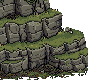
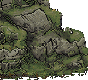
ART-OVERHAUL-001 Stage B corrections: wild rock, solid threshold, varied roots
ChatGPT approved Stage B with three minor refinements; all three are made
without moving or resizing the cave:

- Cliff stone: the cliff and the jambs beside the opening are re-inpainted
  in PixelLab (inpaint_image_pro_flash, silhouette kept) as irregular
  fractured rock instead of coursed strata.
- Threshold: the ordered dither is replaced by a ragged shadow in three
  solid tones easing from the mouth's dark to soil.
- Roots: redrawn by B2/scripts/roots.py with varied length, spacing, curve
  and thickness (two PixelLab root inpaints were still an even curtain).

tools/aoh_cave_ext.py builds from B2/raw/cliff_b2.png and records the B2
jobs (5 jobs, 45 generations) in pixellab-assets.json. The doorway core,
props, collision, the way in and out and saves are unchanged. layout_test,
save_test and menu_test pass. The board records the Stage B review and the
corrections package; DESIGN.md and TASKS.md are updated.

diff --git a/tools/aoh_cave_ext.py b/tools/aoh_cave_ext.py
@@ -18,6 +18,9 @@ from PIL import Image
 ROOT = os.path.dirname(os.path.dirname(os.path.abspath(__file__)))
 SRC = os.path.join(ROOT, 'art/style_tests/ART-OVERHAUL-001/B')
 RAW = os.path.join(SRC, 'raw')
+# B2 (Stage B corrections): the cliff re-inpainted as irregular rock, the jambs too, and hand-drawn roots
+# (B2/scripts/roots.py), built from B/raw/mouth_a.png.
+RAW_B2 = os.path.join(ROOT, 'art/style_tests/ART-OVERHAUL-001/B2/raw')
 OUT = os.path.join(ROOT, 'art/farm/cave_ext')
 RES = 'res://art/farm/cave_ext/'
 T = 16                       # art px per tile
@@ -31,7 +34,7 @@ M_ROCK, MN_ROCK = 'f2f2f0ff', 'c2c2c0ff'
 M_MOUTH, MN_MOUTH = 'ffffffff', 'ccccccff'
 # The throat: the opening's core steps down to these by depth (px in from the core's edge). CAVE_TINT is 050508.
 THROAT = [(3, (14, 12, 16)), (6, (5, 5, 8))]
-SHADOW = (20, 16, 18)        # the threshold decal's colour, the farm's darkest outline step
+SHADOW = (20, 16, 18)        # the threshold decal's core colour, the farm's darkest outline step
 
 
 def load(rel):
@@ -117,19 +120,30 @@ def prop(name, rel, cx, foot, base=None, flat=False, fh=False):
     place(name, im, cx - im.shape[1] // 2, foot - im.shape[0], foot / T if base is None else base, flat=flat)
 
 
-def threshold(w=48, h=15):
-    """The doorway's shadow on row 9: a half-ellipse in three stepped densities (solid, 4x4 ordered dither at
-    1/2, then 1/4), one opaque colour, no partial alpha."""
-    bayer = np.array([[0, 8, 2, 10], [12, 4, 14, 6], [3, 11, 1, 9], [15, 7, 13, 5]]) / 16.0
+def threshold(w=50, h=16, seed=7):
+    """The doorway's shadow on row 9 (B2): a ragged half-ellipse in three solid tones, darkest at the mouth and
+    easing to a dark soil brown at its edge. Each band's edge is wobbled by smooth noise so it reads as worn earth
+    sliding into the dark, not a pattern; no dither, no partial alpha, no lone pixels."""
+    rng = np.random.default_rng(seed)
+    def wobble(n, amp):                      # smooth 1-D noise along x, one value per column
+        k = rng.normal(0, 1, n // 6 + 3)
+        xs = np.arange(n) / 6.0
+        return amp * np.interp(xs, np.arange(len(k)), k)
+    edge = [wobble(w, a) for a in (0.10, 0.08, 0.07)]
+    tones = [SHADOW, (36, 28, 33), (50, 38, 30)]   # the threshold, then two palette darks (241c21, 322619)
+    limits = [0.30, 0.62, 1.0]
     im = np.zeros((h, w, 4), np.uint8)
     for y in range(h):
         for x in range(w):
             r = ((x + 0.5 - w / 2) / (w / 2)) ** 2 + ((y + 0.5) / h) ** 2
-            if r >= 1.0:
-                continue
-            density = 1.0 if r < 0.18 else (0.5 if r < 0.5 else 0.25)
-            if bayer[y % 4, x % 4] < density:
-                im[y, x] = (*SHADOW, 255)
+            for band in range(3):
+                if r < limits[band] + edge[band][x] * (1.0 + y / h):
+                    im[y, x] = (*tones[band], 255)
+                    break
+    a = im[..., 3] > 0                       # drop lone pixels on the outer edge
+    n = np.zeros(a.shape, int)
+    n[1:] += a[:-1]; n[:-1] += a[1:]; n[:, 1:] += a[:, :-1]; n[:, :-1] += a[:, 1:]
+    im[a & (n <= 1)] = 0
     return im
 
 
@@ -138,8 +152,8 @@ def main():
     for f in os.listdir(OUT):
         if f.endswith('.png'):
             os.remove(os.path.join(OUT, f))
-    # --- the cliff with its mouth (cliff_v1, then mouth_a inpainted into x 56-152, y 16-96) ---
-    full = load('mouth_a.png')
+    # --- the cliff with its mouth (cliff_v1, mouth_a inpainted into x 56-152, y 16-96, then the B2 rock and roots) ---
+    full = load(os.path.join(RAW_B2, 'cliff_b2.png'))
     H, W = full.shape[:2]
     MX0, MX1, MY0 = 56, 152, 16
     L = luma(full)
@@ -182,7 +196,7 @@ def main():
         if fh:
             im = im[:, ::-1]
         place('foot_%d.png' % i, im, x0, y0, 0, flat=True)
-    place('threshold.png', threshold(), DOOR_X * T + T // 2 - 24, FOOT_Y, 0, flat=True)
+    place('threshold.png', threshold(), DOOR_X * T + T // 2 - 25, FOOT_Y, 0, flat=True)
     # --- flat litter and pebbles ---
     prop('litter_0.png', 'under/32.png', 200, 168, flat=True)
     prop('litter_1.png', 'under/37.png', 236, 170, flat=True)
@@ -246,6 +260,13 @@ def registry():
         'tool': 'tools/aoh_cave_ext.py', 'sources': 'art/style_tests/ART-OVERHAUL-001/B/',
         'generations': sum(j.get('cost', 0) for j in jobs), 'jobs': jobs,
         'game_files': sorted(used) + [RES + 'pieces.json']}
+    jobs2 = [json.loads(l) for l in open(os.path.join(RAW_B2, 'jobs.jsonl')) if l.strip()]
+    reg['ART-OVERHAUL-001/B2'] = {
+        'tool': 'tools/aoh_cave_ext.py', 'sources': 'art/style_tests/ART-OVERHAUL-001/B2/',
+        'note': 'Stage B corrections: irregular cliff rock, solid-tone threshold, varied roots (hand-drawn)',
+        'generations': sum(j.get('cost', 0) for j in jobs2), 'jobs': jobs2,
+        'game_files': [RES + 'cliff_top.png', RES + 'cliff_w.png', RES + 'cliff_e.png', RES + 'mouth.png',
+                       RES + 'lip.png', RES + 'threshold.png']}
     json.dump(reg, open(path, 'w'), indent=1)
 
 

diff --git a/art/style_tests/ART-OVERHAUL-001/B2/scripts/roots.py b/art/style_tests/ART-OVERHAUL-001/B2/scripts/roots.py
@@ -1,0 +1,45 @@
+"""B2: hand-drawn hanging roots over the mouth (PixelLab's two root inpaints still came out as an even curtain).
+Clears the old roots under the brow (x 86-139, y 25-37) to the opening's dark, then draws eleven roots with
+varied lengths, spacing, curvature and thickness in the colours the old roots used.
+  python roots.py raw/cliff_r1_jamb.png raw/cliff_b2.png"""
+import sys
+import numpy as np
+from PIL import Image
+im = np.array(Image.open(sys.argv[1]).convert('RGBA'))
+f = im[..., :3].astype(float)
+L = 0.3 * f[..., 0] + 0.55 * f[..., 1] + 0.15 * f[..., 2]
+X0, X1, Y0, Y1 = 86, 140, 25, 38
+box = (slice(Y0, Y1), slice(X0, X1))
+# the old roots' colours: the lit pixels in the box, darkest to lightest
+lit = f[box][L[box] >= 32]
+lit = lit[np.argsort(0.3 * lit[:, 0] + 0.55 * lit[:, 1] + 0.15 * lit[:, 2])]
+DARK, MID, HI = (tuple(int(v) for v in lit[int(q * (len(lit) - 1))]) for q in (0.15, 0.5, 0.88))
+GAP = (20, 17, 20)
+sub = im[box]
+sub[(L[box] >= 20) & (sub[..., 3] == 255)] = (*GAP, 255)
+# (x, length, thickness, drift at the tip, kink row or -1): irregular gaps, stubs and two long ones
+ROOTS = [(87, 5, 1, 0, -1), (90, 12, 2, 2, 7), (95, 3, 1, 0, -1), (99, 8, 1, -1, 4), (104, 18, 2, -2, 10),
+         (110, 4, 1, 1, -1), (117, 10, 1, 2, 6), (121, 2, 1, 0, -1), (126, 15, 2, 1, 9), (131, 6, 1, -1, -1),
+         (136, 9, 1, -1, 5)]
+top = np.full(im.shape[1], Y0)
+for x in range(X0, X1):                  # each root hangs from the brow's lowest lit pixel above the box
+    y = Y0 - 1
+    while y > Y0 - 6 and L[y, x] < 32:
+        y -= 1
+    top[x] = y + 1
+for x0, n, t, drift, kink in ROOTS:
+    for i in range(n):
+        u = i / max(n - 1, 1)
+        x = x0 + int(round(drift * u * u)) + (1 if kink >= 0 and i >= kink else 0) * np.sign(drift or 1)
+        y = top[x0] + i
+        thick = t == 2 and u < 0.6
+        tip = i >= n - 2
+        im[y, x] = (*(DARK if tip else MID), 255)
+        if thick:
+            im[y, x + 1] = (*DARK, 255)
+            im[y, x] = (*HI, 255)
+    if n >= 12:                          # a rootlet off each long root
+        y = top[x0] + n // 2
+        im[y, x0 - 1] = (*DARK, 255); im[y + 1, x0 - 2] = (*DARK, 255)
+Image.fromarray(im).save(sys.argv[2])
+print('colours', DARK, MID, HI)

diff --git a/art/style_tests/ART-OVERHAUL-001/B2/scripts/cliff_mask.py b/art/style_tests/ART-OVERHAUL-001/B2/scripts/cliff_mask.py
@@ -1,0 +1,14 @@
+"""B2: mask for re-inpainting the cliff face as irregular rock. White = regenerate: opaque rock eroded 2 px
+(keeps the silhouette), minus the mouth and its brow (x 72-152, y 14-96)."""
+import numpy as np, sys
+from PIL import Image
+src = np.array(Image.open(sys.argv[1]).convert('RGBA'))
+a = src[..., 3] >= 128
+m = a.copy()
+for _ in range(2):
+    e = m.copy(); e[1:] &= m[:-1]; e[:-1] &= m[1:]; e[:, 1:] &= m[:, :-1]; e[:, :-1] &= m[:, 1:]; m = e
+m[14:, 72:152] = False
+m[90:] = False                        # keep the soil foot as it is
+out = np.where(m[..., None], 255, 0).astype(np.uint8).repeat(3, 2)
+Image.fromarray(out, 'RGB').save(sys.argv[2])
+print(m.sum(), 'px white')

diff --git a/art/style_tests/ART-OVERHAUL-001/B2/scripts/jamb_mask.py b/art/style_tests/ART-OVERHAUL-001/B2/scripts/jamb_mask.py
@@ -1,0 +1,12 @@
+"""B2 pass 2: the stone jambs either side of the opening (x 70-90 and 134-154, y 18-90), light pixels only
+(luma >= 34 keeps the dark core and its outline), eroded from the silhouette by 2 px."""
+import numpy as np, sys
+from PIL import Image
+src = np.array(Image.open(sys.argv[1]).convert('RGBA')).astype(float)
+a = src[..., 3] >= 128
+L = 0.3 * src[..., 0] + 0.55 * src[..., 1] + 0.15 * src[..., 2]
+m = np.zeros(a.shape, bool)
+m[18:90, 70:90] = True; m[18:90, 134:154] = True
+m &= a & (L >= 34)
+out = np.where(m[..., None], 255, 0).astype(np.uint8).repeat(3, 2)
+Image.fromarray(out, 'RGB').save(sys.argv[2]); print(m.sum())

diff --git a/DESIGN.md b/DESIGN.md
@@ -936,7 +936,7 @@ Levels are first-pass values and will be tuned in playtesting. Ranged weapons an
 
 A cave on the homestead, cut into the mossy hillside in the farm's north-west. It is the only place to get iron ore, and the main place to fight (the feral dogs on treks are the other).
 
-- **Entrance:** a natural cleft in the north-west hillside (inner tile (11,8)), reached by a worn path from the oak crossroads. Step north onto the doorway to go in. The exit inside takes you back out onto the path just below the doorway. Since ART-OVERHAUL-001 Stage B (November 2026, `CAVE_EXT_V2` in `scripts/farm_scenery.gd`) the hillside is a cliff of layered rock strata across columns 5-20, rows 3-8, stepping down at both ends, with a recessed mouth (about 96×80) whose dark core sits on column 11 and steps down to the cave's own black; a mossy brow with hanging roots and vines is its own layer in front of the mouth. Rubble, boulders and brambles sit on the blocking rock of row 9 (columns 6-10) and the hill's east end; low ferns, leaf drifts, pebbles and moss strips soften the foot; the threshold on row 9 is a stepped, ordered-dither shadow with no partial alpha. No light is baked in and there is no glow or crystal: at night the pieces take the hill's night tint, and the lantern shows the stepped throat. All of it is PixelLab art, made into `art/farm/cave_ext/` (placements in `pieces.json`) by `tools/aoh_cave_ext.py`; sources are in `art/style_tests/ART-OVERHAUL-001/B/`. Art only: the `C` tile, the `K` rock, collision, the way in and out, the minimap icon and saves are unchanged. With the flag off, the FARM-001R picture returns: the concept's mounds of the `hillside` sprite with `cave_mouth_natural.png`, the `hill_foot.png` fringe and ferns (`tools/farm001r_art.py`).
+- **Entrance:** a natural cleft in the north-west hillside (inner tile (11,8)), reached by a worn path from the oak crossroads. Step north onto the doorway to go in. The exit inside takes you back out onto the path just below the doorway. Since ART-OVERHAUL-001 Stage B (November 2026, `CAVE_EXT_V2` in `scripts/farm_scenery.gd`) the hillside is a cliff of wild, irregular rock (fractured boulders and slabs with uneven seams, re-inpainted in the Stage B corrections) across columns 5-20, rows 3-8, stepping down at both ends, with a recessed mouth (about 96×80) whose dark core sits on column 11 and steps down to the cave's own black; a mossy brow with hanging roots of uneven length, spacing, curve and thickness is its own layer in front of the mouth. Rubble, boulders and brambles sit on the blocking rock of row 9 (columns 6-10) and the hill's east end; low ferns, leaf drifts, pebbles and moss strips soften the foot; the threshold on row 9 is a ragged shadow in three solid tones, darkest at the mouth and easing to dark soil at its edge (no dither pattern, no partial alpha). No light is baked in and there is no glow or crystal: at night the pieces take the hill's night tint, and the lantern shows the stepped throat. All of it is PixelLab art, made into `art/farm/cave_ext/` (placements in `pieces.json`) by `tools/aoh_cave_ext.py`; sources are in `art/style_tests/ART-OVERHAUL-001/B/` and, for the corrections, `B2/`. Art only: the `C` tile, the `K` rock, collision, the way in and out, the minimap icon and saves are unchanged. With the flag off, the FARM-001R picture returns: the concept's mounds of the `hillside` sprite with `cave_mouth_natural.png`, the `hill_foot.png` fringe and ferns (`tools/farm001r_art.py`).
 - **Dark:** the cave is always open, but it has no daylight at any hour. Without a lantern it is pitch black; a lantern lights its usual ring, glowing stronger than outdoors (`CAVE_TINT`, `CAVE_LANTERN_BOOST`). Sanity still follows the time of day, not the cave's dark.
 - **Daylight at the exit:** by day a very faint, cool glow spills up the exit steps (`cave_mouth_light`, `CAVE_MOUTH_ENERGY`). It fades out with the dusk and is gone at night.
 - **Layout:** the cave is laid out fresh each day, so the tunnels, ore, and creatures change overnight. The same day always gives the same cave.

diff --git a/AI_COLLAB/MESSAGE_BOARD.md b/AI_COLLAB/MESSAGE_BOARD.md
@@ -2884,3 +2884,20 @@ Read the latest ENV-001 review and NW cave feedback in this board and DESIGN.md.
   - Both BEFORE and AFTER include the uncommitted VIS-002 preview in the working tree (still in `stash@{0}`, untouched).
   - The new-game message (Overcast, Drizzle, Downpour) varies between captures. It is the game's own message RNG; the capture's `weather=` is what was set.
 - **Approval:** pending ChatGPT review and the owner's decision.
+
+### 2026-11-06 — Owner/ChatGPT → Claude Code — ART-OVERHAUL-001 — Stage B review (recorded by Claude Code)
+- **Decision:** approved with minor refinements. ChatGPT reviewed the Stage B master sheet and the full-size entrance close-up: the PixelLab cave exterior is a major improvement and sets the visual standard for Crow Creek Hollow. Keep the cave's size, silhouette, composition and gameplay integration.
+- **Corrections asked for before closing Stage B:** (1) cliff stone: less uniform, stacked masonry; more irregular rock shapes, varied seams, organic transitions; (2) threshold: replace or soften the checkerboard dither so the ground runs naturally into the dark; (3) roots: vary length, spacing, curvature and thickness. No rebuild, no moved entrance, no gameplay change. Then run the tests and give one full-resolution entrance screenshot.
+- **Next:** Stage C, the cave interior, made consistent with the new exterior, with genuine PixelLab production assets where they help; mining, progression, collision and saves preserved; representative in-engine shots (interior, mining, lighting, variety) before final Stage C approval.
+
+### 2026-11-06 — Claude Code → ChatGPT, Owner — ART-OVERHAUL-001 — Stage B corrections (B2) done
+- **Status:** corrections made, tests pass; **not committed yet** (waiting for the owner's go-ahead), so the links below are local paths until then.
+- **Cliff stone:** the cliff was re-inpainted with `inpaint_image_pro_flash` over its rock (silhouette eroded 2 px and kept; mouth and soil foot masked out) as wild rock: fractured boulders and slabs of mixed size with uneven, curved seams. Two seeds; seed 2101 kept (2102's west face still looked coursed). A second pass re-did the stone jambs either side of the opening the same way.
+- **Threshold:** the ordered dither is gone. It is now a ragged half-ellipse in three solid tones (the darkest outline step at the mouth, then two palette darks easing to soil), each band edge wobbled by smooth noise, lone pixels removed; still one flat decal with binary alpha.
+- **Roots:** two PixelLab root inpaints (seeds 2301, 2302) still came out as an even curtain, so the roots were redrawn by `B2/scripts/roots.py` in the old roots' own colours: eleven roots from 2 to 18 px long, uneven gaps, gentle tip drift and kinks, 2 px thick near the brow on the long ones, with small rootlets.
+- **Unchanged:** cave size, silhouette and placement (the doorway core is still x = 184, rows 6.9-8.4), every prop, the `C` tile, collision, the way in and out, saves and `main.gd`. The walkable-tile guardrail passes.
+- **How:** `tools/aoh_cave_ext.py` now builds the cliff from `art/style_tests/ART-OVERHAUL-001/B2/raw/cliff_b2.png`; masks, raw outputs and scripts are in `B2/`. **PixelLab:** 5 jobs, 45 generations, USD 0; all recorded under `ART-OVERHAUL-001/B2` in `pixellab-assets.json`, with the rejected ones and why.
+- **Tests:** `layout_test` (67 PASS), `save_test` (slot 9, 0 failures) and `menu_test` (752 PASS) with no failures.
+- **Screenshot (full resolution, 720×440, day 12:00, Autumn, sunny, farmer on (12,9)):** `art/style_tests/ART-OVERHAUL-001/B2/review/B2_entrance_full.png`.
+- **Stage C (cave interior):** not started yet; it begins in its own session from this state, after this package.
+- **Approval:** the owner and ChatGPT to confirm Stage B is closed.

diff --git a/AI_COLLAB/TASKS.md b/AI_COLLAB/TASKS.md
@@ -9,7 +9,7 @@
 | ART-003 | Concept-to-game vertical slice and wider homestead prototype (non-production) | Claude Code | ChatGPT | Round 1 reviewed (changes requested); Round 2 reviewed (ChatGPT 57.75); R3-1 accepted as the slice's night baseline (ChatGPT 61.5); R3-2 to R3-5 reviewed (ChatGPT 63.0); wider prototype W-1/W-2 reviewed (ChatGPT 60.0); W-3 Batch A reviewed (ChatGPT 64.25); W-3 Batch B reviewed (ChatGPT 68.25); W-3 polish reviewed (ChatGPT 71.0); W-3 wall comparison image-reviewed (`cad881d`): ChatGPT recommends wall A, owner confirmation pending; Batch C approved by the owner (D-011) and built, 4 of 5 generations, reviewed (ChatGPT 72.0, `0dc7f67`); whole-homestead coherence review and road-exit blueprint (`50a6971`) image-reviewed by ChatGPT (`6595947`, no new score); owner accepted Batch C as the non-production baseline and authorized W-4 (Task A prototype refinement, Task B parity plan, documents only); W-4 built, review requested; P-1 not approved. History below | Owner approves each batch and its credit limit; no production migration |
 | ART-004 | Art direction, concept-fidelity feasibility, rubric, ART-003 scorecard and Round 3 plan (documents only) | Claude Code | ChatGPT | review requested | Owner approves each document and each compromise (all PROPOSED — NOT APPROVED) |
 | ART-005 | Visual pipeline reassessment for professional pixel art, and a 16/32/64 px density comparison (`AI_COLLAB/VISUAL_PIPELINE_REASSESSMENT.md`) | Claude Code | ChatGPT | E0 + E1 done, review requested: proposed style spec (`ART_005_STYLE_SPEC.md`), non-production harness and results (`ART_005_E1_REPORT.md`), E2 artist-test plan only (`ART_005_E2_ARTIST_TEST_PLAN.md`); nothing commissioned (D-013). E2-PL PixelLab alternative proposed (`ART_005_E2_PIXELLAB_PLAN.md`), plan only, 0 generations spent | Owner and ChatGPT review E0/E1; owner approves the spec as working standard, E2 scope, budget and quotes; for E2-PL, lifts D-013's PixelLab spending ban for the test only (hard ceiling 250 / 350 generations, USD 0); no production change |
-| ART-OVERHAUL-001 | Production art overhaul: NW cave exterior, cave interior, trek environments, cohesion (PixelLab authorized) | Claude Code | ChatGPT | Stage A (audit, standards, plan: `AI_COLLAB/ART_OVERHAUL_001_PLAN.md`, BEFORE baseline) review requested; Stage B next | Owner and ChatGPT review each stage's in-engine package; owner flags in plan section 8 |
+| ART-OVERHAUL-001 | Production art overhaul: NW cave exterior, cave interior, trek environments, cohesion (PixelLab authorized) | Claude Code | ChatGPT | Stage A done; Stage B approved with minor refinements (2026-11-06), corrections made (B2); Stage C (cave interior) in progress | Owner and ChatGPT review each stage's in-engine package; owner flags in plan section 8 |
 
 ## ART-003 — W-3 history (all non-production, prototype only)
 | Step | Commit | What it did | PixelLab | ChatGPT review |
